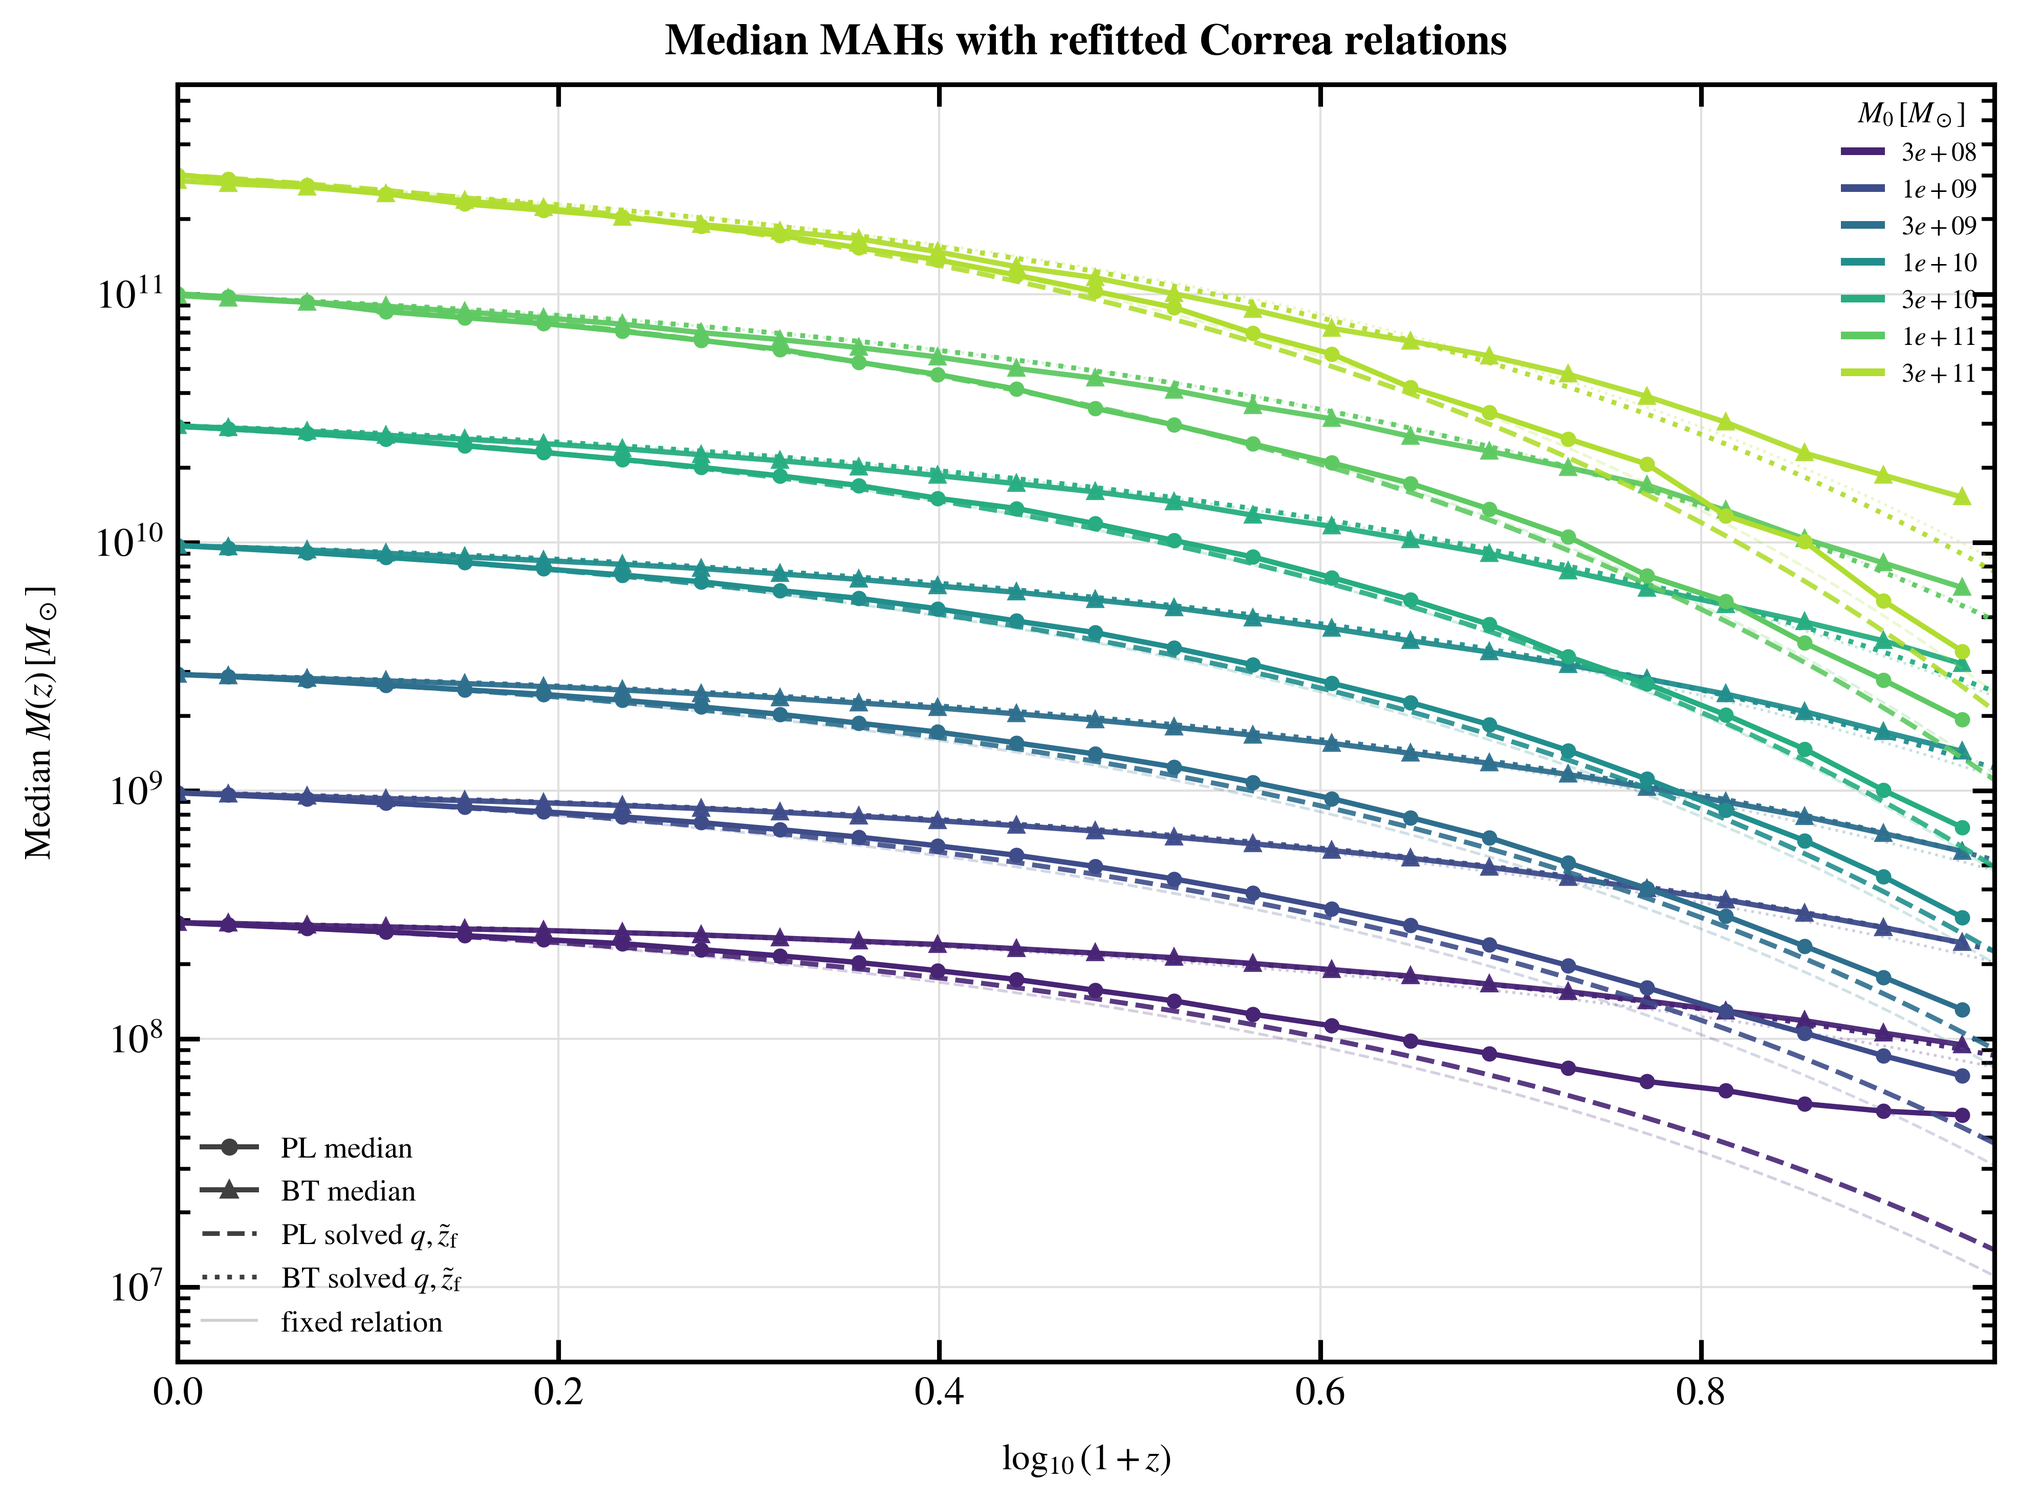
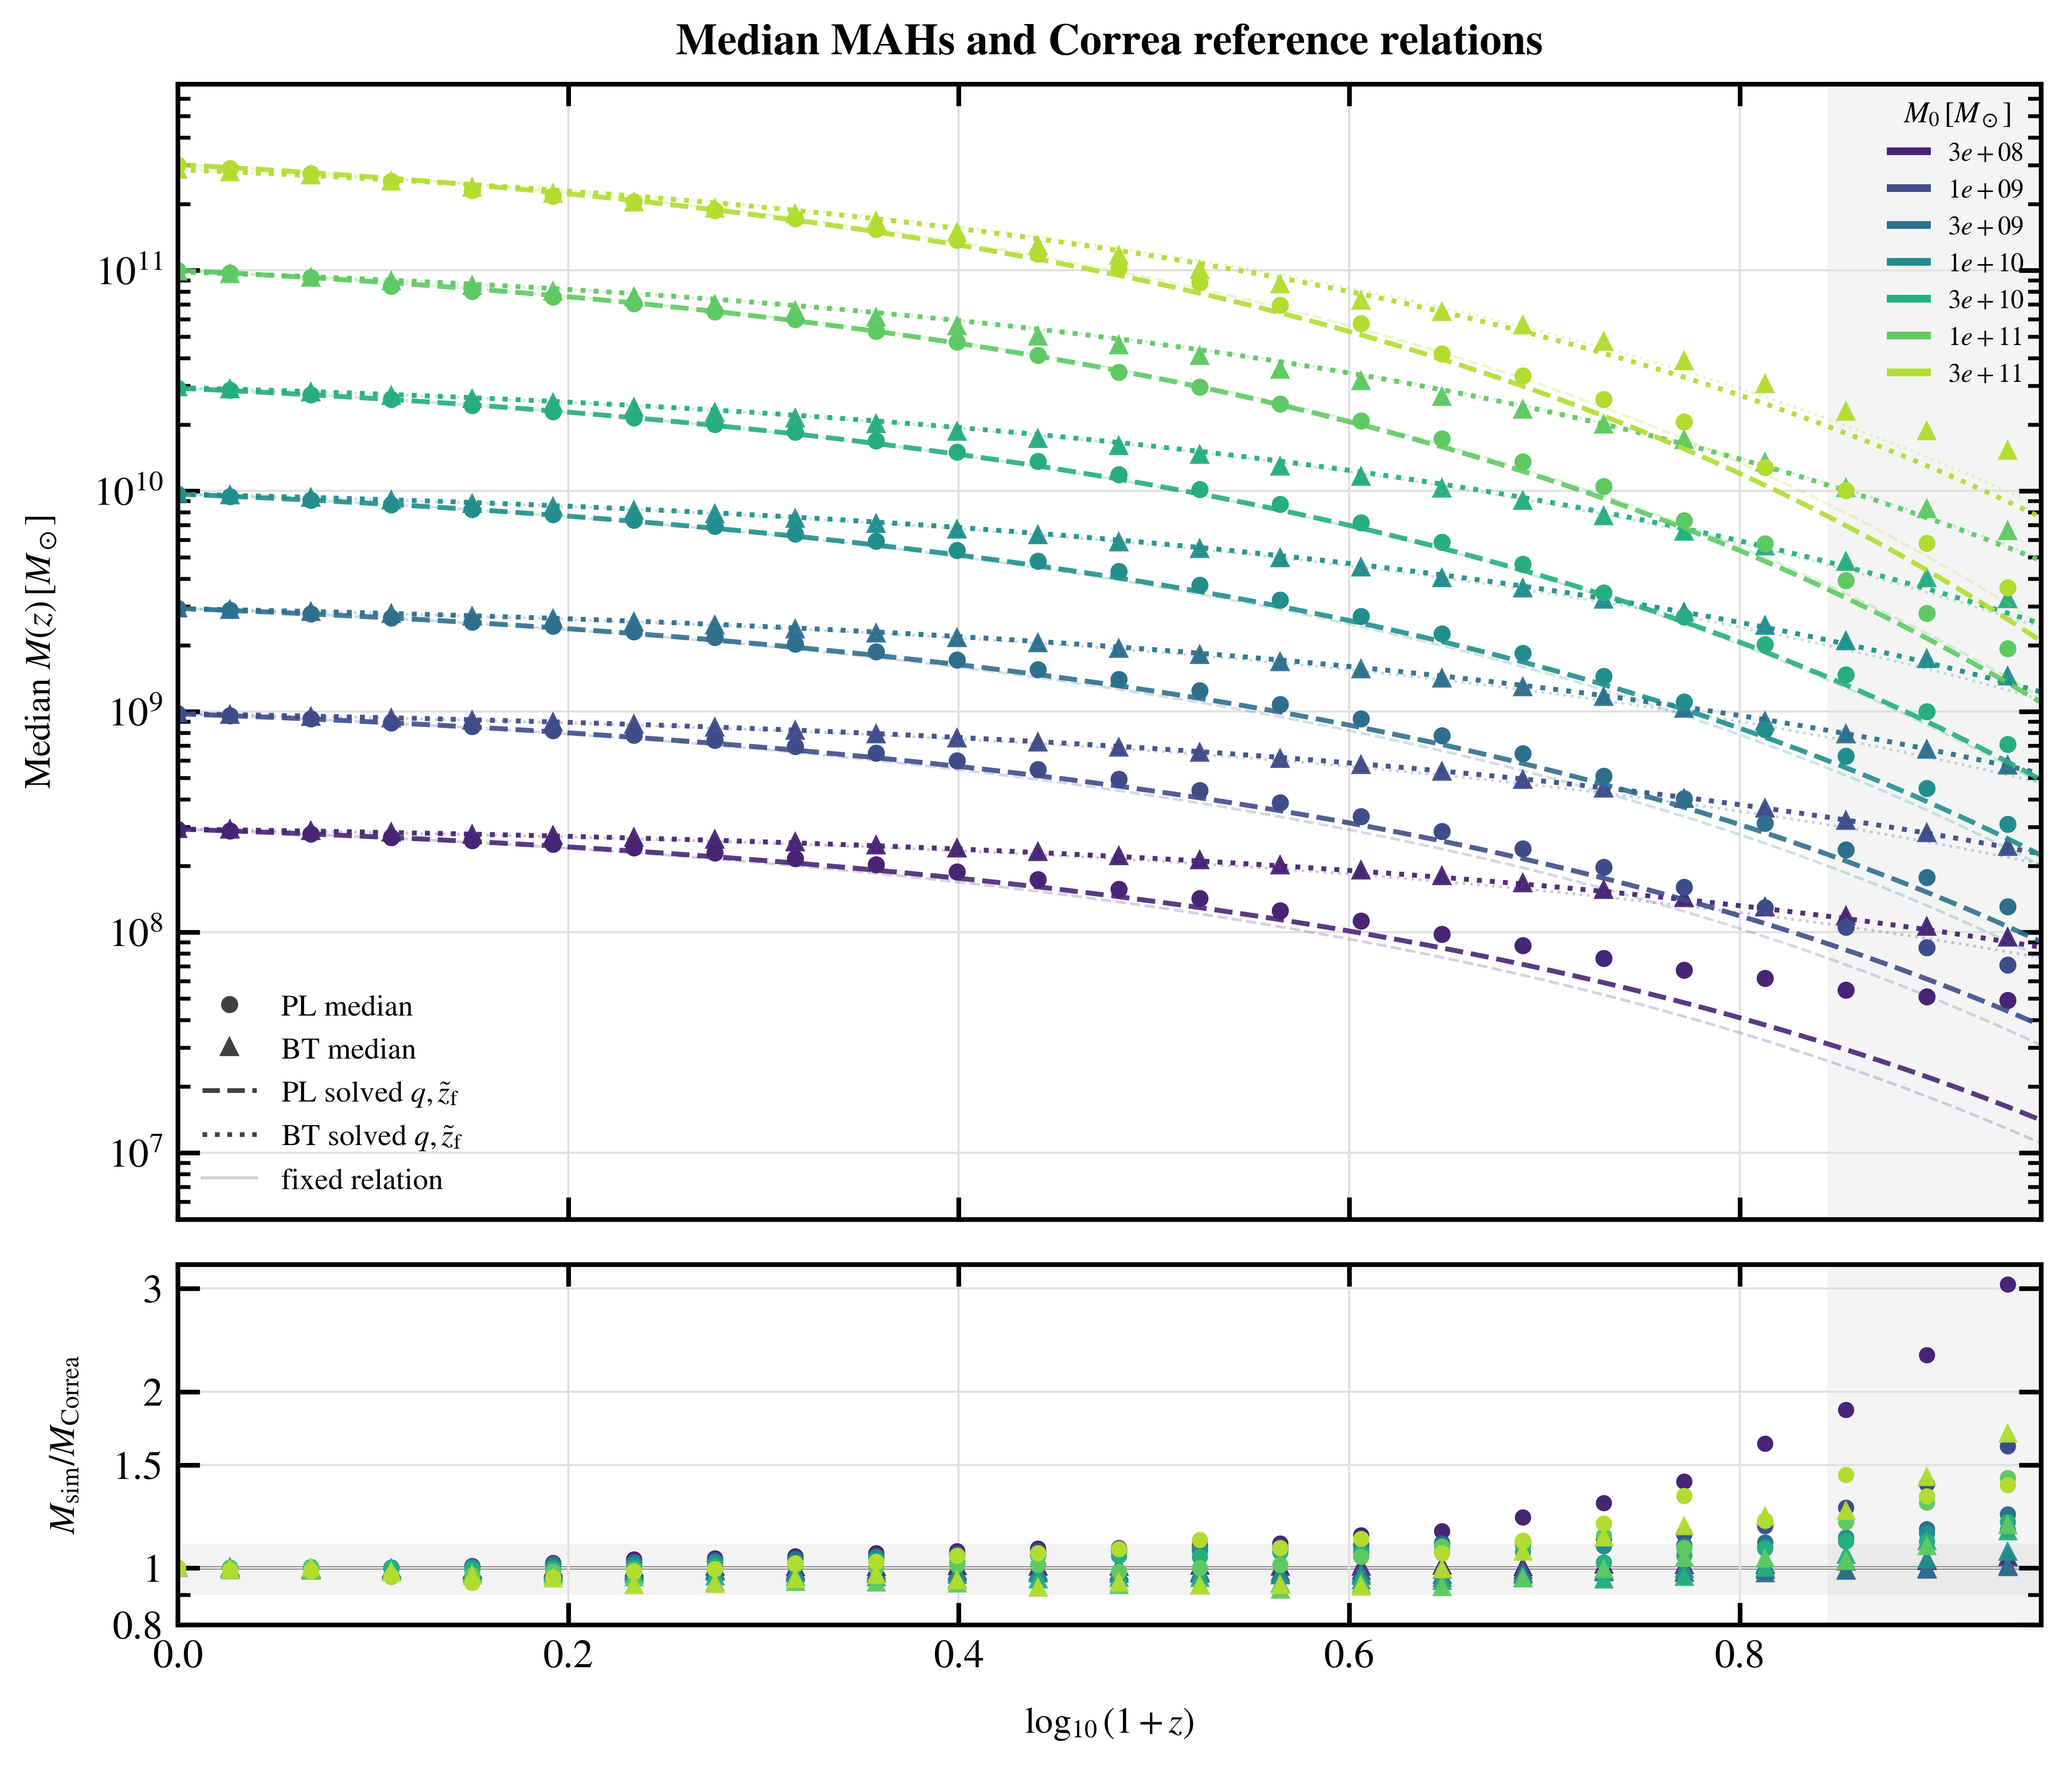
Add MAH simulation-to-reference panel

diff --git a/public_data/scripts/plot_mass_assembly_history_correa.py b/public_data/scripts/plot_mass_assembly_history_correa.py
@@ -29,6 +29,7 @@ from cosmology_plot_style import apply_journal_style, format_axes, save_publicat
 apply_journal_style(base_fontsize=8.5)
 
 Z_MAX = 8.0
+QUANTITATIVE_Z_MAX = 6.0
 TARGETS = [3.0e8, 1.0e9, 3.0e9, 1.0e10, 3.0e10, 1.0e11, 3.0e11]
 
 
@@ -54,6 +55,17 @@ def fixed_curve(curves: pd.DataFrame, mass: float) -> pd.DataFrame:
     return curves[np.isclose(curves["M0_msun"], mass, rtol=1.0e-10, atol=0.0)].sort_values("z")
 
 
+def simulation_to_reference_ratio(
+    direct: pd.DataFrame, reference: pd.DataFrame
+) -> tuple[np.ndarray, np.ndarray]:
+    x_direct = np.log10(1.0 + direct["z"].to_numpy(dtype=float))
+    x_reference = np.log10(1.0 + reference["z"].to_numpy(dtype=float))
+    log_reference_mass = np.log10(reference["M_msun"].to_numpy(dtype=float))
+    reference_mass = 10.0 ** np.interp(x_direct, x_reference, log_reference_mass)
+    ratio = direct["median_M_msun"].to_numpy(dtype=float) / reference_mass
+    return x_direct, ratio
+
+
 def make_figure(output: Path) -> None:
     curves = pd.read_csv(DATA_DIR / "qzf_project_warren_half_mass_allmass_curves.csv")
     pl_data = pd.read_csv(DATA_DIR / "pl_warren_median_mah.csv")
@@ -64,7 +76,13 @@ def make_figure(output: Path) -> None:
     pl_fixed_curves = pd.read_csv(DATA_DIR / "pl_project_warren_curves.csv")
     bt_fixed_curves = pd.read_csv(DATA_DIR / "bt_project_warren_curves.csv")
 
-    fig, ax = plt.subplots(figsize=(7.35, 5.70))
+    fig, (ax, ratio_ax) = plt.subplots(
+        2,
+        1,
+        figsize=(7.35, 6.35),
+        sharex=True,
+        gridspec_kw={"height_ratios": [4.25, 1.35], "hspace": 0.06},
+    )
     colors = plt.get_cmap("viridis")(np.linspace(0.10, 0.88, len(TARGETS)))
 
     for target, color in zip(TARGETS, colors):
@@ -85,31 +103,72 @@ def make_figure(output: Path) -> None:
             np.log10(1.0 + pl_direct["z"]),
             pl_direct["median_M_msun"],
             color=color,
-            lw=1.25,
+            ls="none",
             marker="o",
-            markersize=2.6,
+            markersize=3.0,
         )
         ax.plot(
             np.log10(1.0 + bt_direct["z"]),
             bt_direct["median_M_msun"],
             color=color,
-            lw=1.25,
+            ls="none",
             marker="^",
-            markersize=2.8,
+            markersize=3.2,
             alpha=0.95,
+        )
+
+        pl_ratio_x, pl_ratio = simulation_to_reference_ratio(pl_direct, pl_solved)
+        bt_ratio_x, bt_ratio = simulation_to_reference_ratio(bt_direct, bt_solved)
+        ratio_ax.plot(
+            pl_ratio_x,
+            pl_ratio,
+            color=color,
+            ls="none",
+            marker="o",
+            markersize=2.8,
+        )
+        ratio_ax.plot(
+            bt_ratio_x,
+            bt_ratio,
+            color=color,
+            ls="none",
+            marker="^",
+            markersize=3.0,
+            alpha=0.95,
+        )
+
+    trusted_x_max = np.log10(1.0 + QUANTITATIVE_Z_MAX)
+    plotted_x_max = np.log10(1.0 + Z_MAX)
+    for panel in (ax, ratio_ax):
+        panel.axvspan(
+            trusted_x_max,
+            plotted_x_max,
+            color="0.75",
+            alpha=0.16,
+            lw=0,
+            zorder=0,
         )
 
     ax.set_yscale("log")
     ax.set_xlim(0.0, np.log10(1.0 + Z_MAX))
     ax.set_ylim(5.0e6, 7.0e11)
-    ax.set_xlabel(r"$\log_{10}(1+z)$", labelpad=7)
     ax.set_ylabel(r"Median $M(z)\,[M_\odot]$", labelpad=8)
-    ax.set_title("Median MAHs with refitted Correa relations", pad=7)
+    ax.set_title("Median MAHs and Correa reference relations", pad=7)
     format_axes(ax, grid=True)
 
+    ratio_ax.axhspan(0.9, 1.1, color="0.75", alpha=0.18, lw=0, zorder=0)
+    ratio_ax.axhline(1.0, color="0.25", lw=0.75, zorder=1)
+    ratio_ax.set_yscale("log")
+    ratio_ax.set_ylim(0.8, 3.3)
+    ratio_ax.set_yticks([0.8, 1.0, 1.5, 2.0, 3.0])
+    ratio_ax.set_yticklabels(["0.8", "1", "1.5", "2", "3"])
+    ratio_ax.set_xlabel(r"$\log_{10}(1+z)$", labelpad=7)
+    ratio_ax.set_ylabel(r"$M_{\rm sim}/M_{\rm Correa}$", labelpad=7)
+    format_axes(ratio_ax, grid=True)
+
     style_handles = [
-        plt.Line2D([], [], color="0.25", lw=1.2, marker="o", markersize=3.0, label="PL median"),
-        plt.Line2D([], [], color="0.25", lw=1.2, marker="^", markersize=3.2, label="BT median"),
+        plt.Line2D([], [], color="0.25", ls="none", marker="o", markersize=3.0, label="PL median"),
+        plt.Line2D([], [], color="0.25", ls="none", marker="^", markersize=3.2, label="BT median"),
         plt.Line2D([], [], color="0.25", lw=1.1, ls="--", label=r"PL solved $q,\tilde{z}_{\rm f}$"),
         plt.Line2D([], [], color="0.25", lw=1.1, ls=":", label=r"BT solved $q,\tilde{z}_{\rm f}$"),
         plt.Line2D([], [], color="0.25", lw=0.7, ls="-", alpha=0.25, label="fixed relation"),
@@ -130,7 +189,7 @@ def make_figure(output: Path) -> None:
         handlelength=1.4,
         borderaxespad=0.25,
     )
-    fig.subplots_adjust(left=0.18, right=0.985, bottom=0.15, top=0.88)
+    fig.subplots_adjust(left=0.16, right=0.985, bottom=0.12, top=0.91)
     save_publication_figure(fig, output)
 
 

diff --git a/main.tex b/main.tex
@@ -365,7 +365,7 @@ The half-mass assembly redshift, \(z_{1/2}\), is defined as the redshift at whic
 \begin{figure*}[t]
     \centering
     \includegraphics[width=\textwidth]{mass-assembly-history-correa-halfmass.png}
-    \caption{\revisionblue{Median FOF mass-assembly histories for halos selected at \(z=0\). Circles show PL and triangles show \BTKPone{}; the figure legend abbreviates the latter as BT. Colors indicate seven final-mass windows centered on \(3\times10^8\), \(10^9\), \(3\times10^9\), \(10^{10}\), \(3\times10^{10}\), \(10^{11}\), and \(3\times10^{11}\,M_\odot\), each with a half-width of 0.1 dex. Halos are followed through their persistent \texttt{TrackId}, and each point is the median positive Warren-corrected FOF mass among the selected halos detected at that snapshot. Missing detections are not filled. Prominent dashed and dotted curves show the Correa et al. (2015) EPS form computed with the PL and \BTKPone{} linear matter power spectra, respectively, after \(q\) and \(\widetilde z_{\rm f}\) are recomputed with the half-mass closure. Faint curves use the published fixed \(q(M_0)\) and \(\widetilde z_{\rm f}(M_0)\) relations. The analytic curves are not fitted to the plotted histories. Quantitative interpretation is restricted to \(M_0\ge10^9\,M_\odot\) and \(z\le6\).} \Tk{To be consistent with other figures, the simulation data should be points instead of points with lines. }}
+    \caption{\revisionblue{{\it Upper panel:} Median FOF mass-assembly histories for halos selected at \(z=0\). Unconnected circles show PL simulation medians, and unconnected triangles show \BTKPone{} medians; the figure legend abbreviates the latter as BT. Colors indicate seven final-mass windows centered on \(3\times10^8\), \(10^9\), \(3\times10^9\), \(10^{10}\), \(3\times10^{10}\), \(10^{11}\), and \(3\times10^{11}\,M_\odot\), each with a half-width of 0.1 dex. Halos are followed through their persistent \texttt{TrackId}, and each point is the median positive Warren-corrected FOF mass among the selected halos detected at that snapshot. Missing detections are not filled. Prominent dashed and dotted curves show the Correa et al. (2015) EPS form computed with the PL and \BTKPone{} linear matter power spectra, respectively, after \(q\) and \(\widetilde z_{\rm f}\) are recomputed with the half-mass closure. Faint curves use the published fixed \(q(M_0)\) and \(\widetilde z_{\rm f}(M_0)\) relations. The analytic curves are not fitted to the plotted histories. {\it Lower panel:} Ratio of each simulation median to the corresponding prominent Correa reference curve at the same redshift. The horizontal line marks unity, and the horizontal gray band marks a \(\pm10\%\) difference. The vertical gray region marks \(z>6\), which is excluded from the quantitative comparison. Quantitative interpretation is also restricted to \(M_0\ge10^9\,M_\odot\).} \Tk{To be consistent with other figures, the simulation data should be points instead of points with lines. }}
     \label{fig:mass_assembly_history_correa}
 \end{figure*}
 

diff --git a/reviewer_comments_record.md b/reviewer_comments_record.md
@@ -368,3 +368,16 @@ The revised paragraph assigns a concrete use to each tested prescription. Halo m
[1 lines of base64/hex data omitted]
 - The data reduction and figure regeneration were run through Slurm compute jobs; no heavy calculation was run on the login node.
 - LaTeX compilation was intentionally not run for this revision because the figure was requested for visual inspection before compilation.
+
+## 17. Revise the mass-assembly-history comparison figure
+
+- **Location:** Median Mass-Assembly Histories subsection and figure
+- **Status:** Figure and caption updated; manuscript compilation intentionally deferred
+
+### Requested changes
+
+The simulation histories should be shown as points rather than connected lines. A lower panel should also show the difference between each simulation history and its analytic reference.
+
+### Revision made
+
+The upper panel now shows the PL and BT simulation medians as unconnected circles and triangles. The Correa relations remain as curves. A new lower panel shows \(M_{\rm sim}/M_{\rm Correa}\), evaluated against the prominent spectrum-dependent Correa curve at each simulation redshift. A horizontal gray band marks a 10 percent difference from unity. The interval at \(z>6\) is shaded because the manuscript restricts its quantitative comparison to \(z\le6\).
